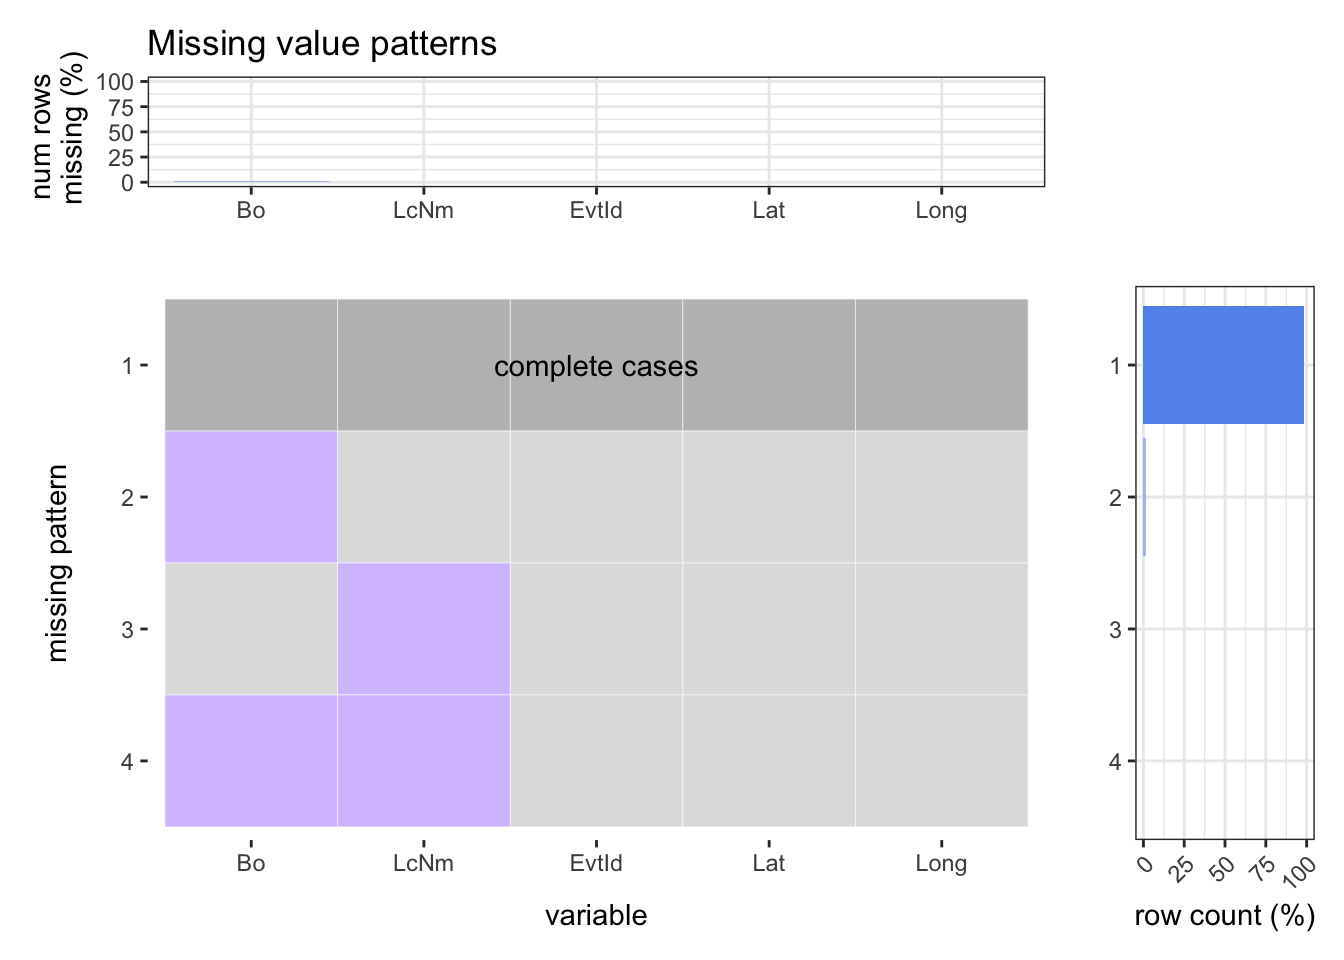
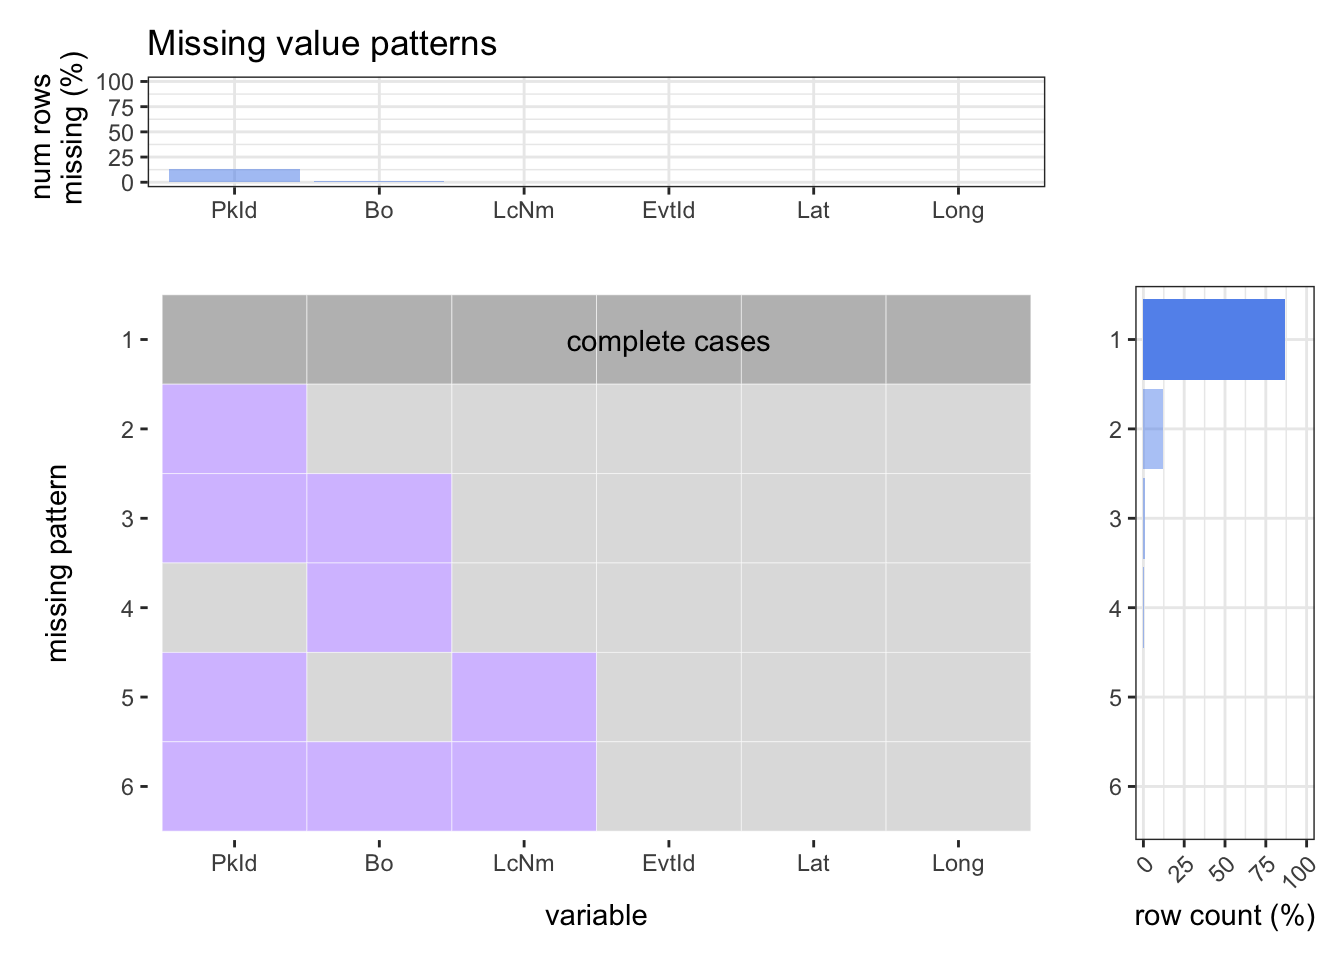
More

diff --git a/docs/missing-values.html b/docs/missing-values.html
@@ -107,9 +107,10 @@
 <ul>
 <li class="chapter" data-level="5.1" data-path="results.html"><a href="results.html#events-and-parks-analysis"><i class="fa fa-check"></i><b>5.1</b> Events and Parks Analysis</a>
 <ul>
-<li class="chapter" data-level="5.1.1" data-path="results.html"><a href="results.html#most-lively-parks"><i class="fa fa-check"></i><b>5.1.1</b> Most lively parks</a></li>
-<li class="chapter" data-level="5.1.2" data-path="results.html"><a href="results.html#most-diversified-park"><i class="fa fa-check"></i><b>5.1.2</b> Most Diversified Park</a></li>
-<li class="chapter" data-level="5.1.3" data-path="results.html"><a href="results.html#ratio-of-free-events-in-parks"><i class="fa fa-check"></i><b>5.1.3</b> Ratio of free events in parks</a></li>
+<li class="chapter" data-level="5.1.1" data-path="results.html"><a href="results.html#top-event-categories-organizers-and-locations"><i class="fa fa-check"></i><b>5.1.1</b> Top Event Categories, Organizers, and Locations</a></li>
+<li class="chapter" data-level="5.1.2" data-path="results.html"><a href="results.html#most-lively-parks"><i class="fa fa-check"></i><b>5.1.2</b> Most lively parks</a></li>
+<li class="chapter" data-level="5.1.3" data-path="results.html"><a href="results.html#most-diversified-park"><i class="fa fa-check"></i><b>5.1.3</b> Most Diversified Park</a></li>
+<li class="chapter" data-level="5.1.4" data-path="results.html"><a href="results.html#ratio-of-free-events-in-parks"><i class="fa fa-check"></i><b>5.1.4</b> Ratio of free events in parks</a></li>
 </ul></li>
 <li class="chapter" data-level="5.2" data-path="results.html"><a href="results.html#timeseries-analysis"><i class="fa fa-check"></i><b>5.2</b> Timeseries Analysis</a>
 <ul>
@@ -196,12 +197,12 @@ latitude data are required for event registration so that it could be located on
 of the dataset. The data records missing only zip code (<code>Zip</code>) or address (<code>Addr</code>) comes second and third, then
 followed by the pattern of data missing all of address, zip code, and accessibility information.</p>
 <p><img src="finalproj_files/figure-html/nyc%20event%20listing%20locations%20missing%20data-1.png" width="672" /><img src="finalproj_files/figure-html/nyc%20event%20listing%20locations%20missing%20data-2.png" width="672" /></p>
-<pre><code>##  Addr  Accs   Zip  pkId    Bo  LcNm EvtId   Lat  Long 
+<pre><code>##  Addr  Accs   Zip  PkId    Bo  LcNm EvtId   Lat  Long 
 ## 46061 42620 37826 12263  1479     2     0     0     0</code></pre>
 <p>After dropping “Addr”, “Accs”, “pkId”, “Zip” columns in the data set, we can have a closer look at the missing data percentage for Borough (<code>Bo</code>) and Location Name (<code>LcNm</code>). Location name is not a reliable source of information for location identification, since locations are sketchy and not rigidly defined. The missing data in the Borough (<code>Bo</code>) fields are minimal, which would not affect our coarse-grained location-based studies.</p>
 <p><img src="finalproj_files/figure-html/nyc%20event%20listing%20locations%20missing%20data%20w/%20dropped%20columns-1.png" width="672" /><img src="finalproj_files/figure-html/nyc%20event%20listing%20locations%20missing%20data%20w/%20dropped%20columns-2.png" width="672" /></p>
-<pre><code>##    Bo  LcNm EvtId   Lat  Long 
-##  1479     2     0     0     0</code></pre>
+<pre><code>##  PkId    Bo  LcNm EvtId   Lat  Long 
+## 12263  1479     2     0     0     0</code></pre>
 <p>How about the missing patterns when joining the individual additional information tables (categories, locations, and organizers) with the main events listing table? We will explore in the following section.</p>
 </div>
 </div>

diff --git a/docs/404.html b/docs/404.html
@@ -107,9 +107,10 @@
 <ul>
 <li class="chapter" data-level="5.1" data-path="results.html"><a href="results.html#events-and-parks-analysis"><i class="fa fa-check"></i><b>5.1</b> Events and Parks Analysis</a>
 <ul>
-<li class="chapter" data-level="5.1.1" data-path="results.html"><a href="results.html#most-lively-parks"><i class="fa fa-check"></i><b>5.1.1</b> Most lively parks</a></li>
-<li class="chapter" data-level="5.1.2" data-path="results.html"><a href="results.html#most-diversified-park"><i class="fa fa-check"></i><b>5.1.2</b> Most Diversified Park</a></li>
-<li class="chapter" data-level="5.1.3" data-path="results.html"><a href="results.html#ratio-of-free-events-in-parks"><i class="fa fa-check"></i><b>5.1.3</b> Ratio of free events in parks</a></li>
+<li class="chapter" data-level="5.1.1" data-path="results.html"><a href="results.html#top-event-categories-organizers-and-locations"><i class="fa fa-check"></i><b>5.1.1</b> Top Event Categories, Organizers, and Locations</a></li>
+<li class="chapter" data-level="5.1.2" data-path="results.html"><a href="results.html#most-lively-parks"><i class="fa fa-check"></i><b>5.1.2</b> Most lively parks</a></li>
+<li class="chapter" data-level="5.1.3" data-path="results.html"><a href="results.html#most-diversified-park"><i class="fa fa-check"></i><b>5.1.3</b> Most Diversified Park</a></li>
+<li class="chapter" data-level="5.1.4" data-path="results.html"><a href="results.html#ratio-of-free-events-in-parks"><i class="fa fa-check"></i><b>5.1.4</b> Ratio of free events in parks</a></li>
 </ul></li>
 <li class="chapter" data-level="5.2" data-path="results.html"><a href="results.html#timeseries-analysis"><i class="fa fa-check"></i><b>5.2</b> Timeseries Analysis</a>
 <ul>

diff --git a/docs/conclusion.html b/docs/conclusion.html
@@ -107,9 +107,10 @@
 <ul>
 <li class="chapter" data-level="5.1" data-path="results.html"><a href="results.html#events-and-parks-analysis"><i class="fa fa-check"></i><b>5.1</b> Events and Parks Analysis</a>
 <ul>
-<li class="chapter" data-level="5.1.1" data-path="results.html"><a href="results.html#most-lively-parks"><i class="fa fa-check"></i><b>5.1.1</b> Most lively parks</a></li>
-<li class="chapter" data-level="5.1.2" data-path="results.html"><a href="results.html#most-diversified-park"><i class="fa fa-check"></i><b>5.1.2</b> Most Diversified Park</a></li>
-<li class="chapter" data-level="5.1.3" data-path="results.html"><a href="results.html#ratio-of-free-events-in-parks"><i class="fa fa-check"></i><b>5.1.3</b> Ratio of free events in parks</a></li>
+<li class="chapter" data-level="5.1.1" data-path="results.html"><a href="results.html#top-event-categories-organizers-and-locations"><i class="fa fa-check"></i><b>5.1.1</b> Top Event Categories, Organizers, and Locations</a></li>
+<li class="chapter" data-level="5.1.2" data-path="results.html"><a href="results.html#most-lively-parks"><i class="fa fa-check"></i><b>5.1.2</b> Most lively parks</a></li>
+<li class="chapter" data-level="5.1.3" data-path="results.html"><a href="results.html#most-diversified-park"><i class="fa fa-check"></i><b>5.1.3</b> Most Diversified Park</a></li>
+<li class="chapter" data-level="5.1.4" data-path="results.html"><a href="results.html#ratio-of-free-events-in-parks"><i class="fa fa-check"></i><b>5.1.4</b> Ratio of free events in parks</a></li>
 </ul></li>
 <li class="chapter" data-level="5.2" data-path="results.html"><a href="results.html#timeseries-analysis"><i class="fa fa-check"></i><b>5.2</b> Timeseries Analysis</a>
 <ul>

diff --git a/docs/data-sources.html b/docs/data-sources.html
@@ -107,9 +107,10 @@
 <ul>
 <li class="chapter" data-level="5.1" data-path="results.html"><a href="results.html#events-and-parks-analysis"><i class="fa fa-check"></i><b>5.1</b> Events and Parks Analysis</a>
 <ul>
-<li class="chapter" data-level="5.1.1" data-path="results.html"><a href="results.html#most-lively-parks"><i class="fa fa-check"></i><b>5.1.1</b> Most lively parks</a></li>
-<li class="chapter" data-level="5.1.2" data-path="results.html"><a href="results.html#most-diversified-park"><i class="fa fa-check"></i><b>5.1.2</b> Most Diversified Park</a></li>
-<li class="chapter" data-level="5.1.3" data-path="results.html"><a href="results.html#ratio-of-free-events-in-parks"><i class="fa fa-check"></i><b>5.1.3</b> Ratio of free events in parks</a></li>
+<li class="chapter" data-level="5.1.1" data-path="results.html"><a href="results.html#top-event-categories-organizers-and-locations"><i class="fa fa-check"></i><b>5.1.1</b> Top Event Categories, Organizers, and Locations</a></li>
+<li class="chapter" data-level="5.1.2" data-path="results.html"><a href="results.html#most-lively-parks"><i class="fa fa-check"></i><b>5.1.2</b> Most lively parks</a></li>
+<li class="chapter" data-level="5.1.3" data-path="results.html"><a href="results.html#most-diversified-park"><i class="fa fa-check"></i><b>5.1.3</b> Most Diversified Park</a></li>
+<li class="chapter" data-level="5.1.4" data-path="results.html"><a href="results.html#ratio-of-free-events-in-parks"><i class="fa fa-check"></i><b>5.1.4</b> Ratio of free events in parks</a></li>
 </ul></li>
 <li class="chapter" data-level="5.2" data-path="results.html"><a href="results.html#timeseries-analysis"><i class="fa fa-check"></i><b>5.2</b> Timeseries Analysis</a>
 <ul>

diff --git a/docs/data-transformation.html b/docs/data-transformation.html
@@ -107,9 +107,10 @@
 <ul>
 <li class="chapter" data-level="5.1" data-path="results.html"><a href="results.html#events-and-parks-analysis"><i class="fa fa-check"></i><b>5.1</b> Events and Parks Analysis</a>
 <ul>
-<li class="chapter" data-level="5.1.1" data-path="results.html"><a href="results.html#most-lively-parks"><i class="fa fa-check"></i><b>5.1.1</b> Most lively parks</a></li>
-<li class="chapter" data-level="5.1.2" data-path="results.html"><a href="results.html#most-diversified-park"><i class="fa fa-check"></i><b>5.1.2</b> Most Diversified Park</a></li>
-<li class="chapter" data-level="5.1.3" data-path="results.html"><a href="results.html#ratio-of-free-events-in-parks"><i class="fa fa-check"></i><b>5.1.3</b> Ratio of free events in parks</a></li>
+<li class="chapter" data-level="5.1.1" data-path="results.html"><a href="results.html#top-event-categories-organizers-and-locations"><i class="fa fa-check"></i><b>5.1.1</b> Top Event Categories, Organizers, and Locations</a></li>
+<li class="chapter" data-level="5.1.2" data-path="results.html"><a href="results.html#most-lively-parks"><i class="fa fa-check"></i><b>5.1.2</b> Most lively parks</a></li>
+<li class="chapter" data-level="5.1.3" data-path="results.html"><a href="results.html#most-diversified-park"><i class="fa fa-check"></i><b>5.1.3</b> Most Diversified Park</a></li>
+<li class="chapter" data-level="5.1.4" data-path="results.html"><a href="results.html#ratio-of-free-events-in-parks"><i class="fa fa-check"></i><b>5.1.4</b> Ratio of free events in parks</a></li>
 </ul></li>
 <li class="chapter" data-level="5.2" data-path="results.html"><a href="results.html#timeseries-analysis"><i class="fa fa-check"></i><b>5.2</b> Timeseries Analysis</a>
 <ul>

diff --git a/docs/index.html b/docs/index.html
@@ -107,9 +107,10 @@
 <ul>
 <li class="chapter" data-level="5.1" data-path="results.html"><a href="results.html#events-and-parks-analysis"><i class="fa fa-check"></i><b>5.1</b> Events and Parks Analysis</a>
 <ul>
-<li class="chapter" data-level="5.1.1" data-path="results.html"><a href="results.html#most-lively-parks"><i class="fa fa-check"></i><b>5.1.1</b> Most lively parks</a></li>
-<li class="chapter" data-level="5.1.2" data-path="results.html"><a href="results.html#most-diversified-park"><i class="fa fa-check"></i><b>5.1.2</b> Most Diversified Park</a></li>
-<li class="chapter" data-level="5.1.3" data-path="results.html"><a href="results.html#ratio-of-free-events-in-parks"><i class="fa fa-check"></i><b>5.1.3</b> Ratio of free events in parks</a></li>
+<li class="chapter" data-level="5.1.1" data-path="results.html"><a href="results.html#top-event-categories-organizers-and-locations"><i class="fa fa-check"></i><b>5.1.1</b> Top Event Categories, Organizers, and Locations</a></li>
+<li class="chapter" data-level="5.1.2" data-path="results.html"><a href="results.html#most-lively-parks"><i class="fa fa-check"></i><b>5.1.2</b> Most lively parks</a></li>
+<li class="chapter" data-level="5.1.3" data-path="results.html"><a href="results.html#most-diversified-park"><i class="fa fa-check"></i><b>5.1.3</b> Most Diversified Park</a></li>
+<li class="chapter" data-level="5.1.4" data-path="results.html"><a href="results.html#ratio-of-free-events-in-parks"><i class="fa fa-check"></i><b>5.1.4</b> Ratio of free events in parks</a></li>
 </ul></li>
 <li class="chapter" data-level="5.2" data-path="results.html"><a href="results.html#timeseries-analysis"><i class="fa fa-check"></i><b>5.2</b> Timeseries Analysis</a>
 <ul>

diff --git a/docs/interactive-component.html b/docs/interactive-component.html
@@ -107,9 +107,10 @@
 <ul>
 <li class="chapter" data-level="5.1" data-path="results.html"><a href="results.html#events-and-parks-analysis"><i class="fa fa-check"></i><b>5.1</b> Events and Parks Analysis</a>
 <ul>
-<li class="chapter" data-level="5.1.1" data-path="results.html"><a href="results.html#most-lively-parks"><i class="fa fa-check"></i><b>5.1.1</b> Most lively parks</a></li>
-<li class="chapter" data-level="5.1.2" data-path="results.html"><a href="results.html#most-diversified-park"><i class="fa fa-check"></i><b>5.1.2</b> Most Diversified Park</a></li>
-<li class="chapter" data-level="5.1.3" data-path="results.html"><a href="results.html#ratio-of-free-events-in-parks"><i class="fa fa-check"></i><b>5.1.3</b> Ratio of free events in parks</a></li>
+<li class="chapter" data-level="5.1.1" data-path="results.html"><a href="results.html#top-event-categories-organizers-and-locations"><i class="fa fa-check"></i><b>5.1.1</b> Top Event Categories, Organizers, and Locations</a></li>
+<li class="chapter" data-level="5.1.2" data-path="results.html"><a href="results.html#most-lively-parks"><i class="fa fa-check"></i><b>5.1.2</b> Most lively parks</a></li>
+<li class="chapter" data-level="5.1.3" data-path="results.html"><a href="results.html#most-diversified-park"><i class="fa fa-check"></i><b>5.1.3</b> Most Diversified Park</a></li>
+<li class="chapter" data-level="5.1.4" data-path="results.html"><a href="results.html#ratio-of-free-events-in-parks"><i class="fa fa-check"></i><b>5.1.4</b> Ratio of free events in parks</a></li>
 </ul></li>
 <li class="chapter" data-level="5.2" data-path="results.html"><a href="results.html#timeseries-analysis"><i class="fa fa-check"></i><b>5.2</b> Timeseries Analysis</a>
 <ul>
